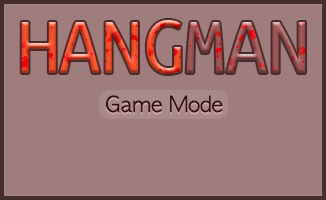
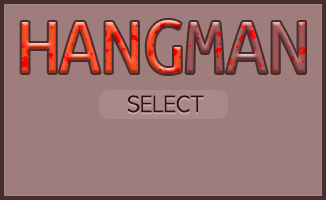
게임 알고리즘 완성 및 GUI연동

Changed region(s): [[0.3067, 0.45, 0.7055, 0.57]]

diff --git a/Hangman/GameController.java b/Hangman/GameController.java
@@ -1,0 +1,239 @@
+package Hangman;
+
+import javafx.animation.KeyFrame;
+import javafx.animation.Timeline;
+import javafx.fxml.FXML;
+import javafx.fxml.FXMLLoader;
+import javafx.fxml.Initializable;
+import javafx.geometry.Pos;
+import javafx.scene.Parent;
+import javafx.scene.Scene;
+import javafx.scene.control.Button;
+import javafx.scene.control.Label;
+import javafx.scene.control.ProgressBar;
+import javafx.scene.image.ImageView;
+import javafx.scene.layout.AnchorPane;
+import javafx.scene.layout.BorderPane;
+import javafx.scene.paint.Paint;
+import javafx.scene.text.Font;
+import javafx.stage.Stage;
+import javafx.util.Duration;
+
+import java.io.IOException;
+import java.net.URL;
+import java.util.Random;
+import java.util.ResourceBundle;
+
+public class GameController implements Initializable {
+
+    @FXML private AnchorPane GamePane;
+    @FXML private BorderPane CountDownPane;
+    @FXML private Label txtCount, txtDelete;
+    @FXML private ProgressBar timeBar;
+    @FXML private ImageView human;
+    @FXML private Label rope;
+    private Label[] labelAns, labelUnderline;
+    private Button[] bAlphabet;
+    private Label txtEndingMsg;
+    private Button bBackToTitle;
+
+    private Timeline timeline;
+    private final int tick = 3;
+    private final int GameTime = 60000; // ms (60000 = 1 min)
+    private int leftTick, leftTime;
+    private final String[] words = {"STUDENT","CHARACTER","MANTIS","ANIMAL","SMASHROOM","HANYANG","OHIKJUN","LEEJUNGIN","MAPLELEAF",
+    "ILOVEYOU","COMMUNITY","PROBLEM","DISCRETE","SUBMARINE","SEOYOUNG","LEEEUNAH"};
+    private char[] answer;
+    private char[] uranswer;
+
+    @Override
+    public void initialize(URL location, ResourceBundle resources) {
+        CountDownPane.setVisible(true);
+        timeBar.setStyle("-fx-accent: #ffae00");
+        startCountDown();
+
+        // set word
+        Random random = new Random();
+        //String temp = words[random.nextInt(words.length)];
+        String temp = words[(int)Math.round(Math.random()*(words.length-1))];
+        answer = new char[temp.length()];
+        uranswer = new char[temp.length()];
+        labelAns = new Label[temp.length()];
+        labelUnderline = new Label[temp.length()];
+        for (int i=0; i<temp.length(); i++) {
+            answer[i] = temp.charAt(i);
+            uranswer[i] = '_';
+
+            labelAns[i] = new Label("labelAns" + i);
+            labelAns[i].setPrefSize(52,100);
+            labelAns[i].setLayoutX(320+(25*(9-temp.length()))+(52*i));
+            labelAns[i].setLayoutY(90);
+            labelAns[i].setText(" ");
+            //labelAns[i].setUnderline(true);
+            labelAns[i].setFont(Font.font("Arial", 70));
+            labelAns[i].setAlignment(Pos.CENTER);
+
+            labelUnderline[i] = new Label("labelUnderline" + i);
+            labelUnderline[i].setPrefSize(48, 3);
+            labelUnderline[i].setLayoutX(320+(25*(9-temp.length()))+(52*i)+2);
+            labelUnderline[i].setLayoutY(175);
+            labelUnderline[i].setText("");
+            labelUnderline[i].setFont(Font.font("Arial",1));
+            labelUnderline[i].setStyle("-fx-background-color: BLACK");
+            GamePane.getChildren().addAll(labelAns[i], labelUnderline[i]);
+        }
+
+        // make alphabet select button
+        bAlphabet = new Button[26];
+        for (int i=0; i<26; i++) {
+            bAlphabet[i] = new Button("bAlphabet" + i);
+            bAlphabet[i].setPrefSize(80,37);
+            if (i == 25) bAlphabet[i].setPrefSize(408,37);
+            bAlphabet[i].setLayoutX(350+(82*(i%5)));
+            bAlphabet[i].setLayoutY(250+(i/5)*45);
+            bAlphabet[i].setText("" + (char)((int)'A'+i));
+            bAlphabet[i].setFont(Font.font("Airal", 20));
+            Button bTmp = bAlphabet[i];
+            bAlphabet[i].setOnAction(event -> PressButton(bTmp.getText()));
+            GamePane.getChildren().add(bAlphabet[i]);
+        }
+
+        // end message ( win or lose )
+        txtEndingMsg = new Label("txtEndingMsg");
+        txtEndingMsg.setPrefSize(490, 110);
+        txtEndingMsg.setText("ENDING MSG");
+        txtEndingMsg.setFont(Font.font("Arial", 50));
+        txtEndingMsg.setAlignment(Pos.CENTER);
+        txtEndingMsg.setLayoutX(310);
+        txtEndingMsg.setLayoutY(240);
+        txtEndingMsg.setVisible(false);
+
+        // go back to title
+        bBackToTitle = new Button("bBackToTitle");
+        bBackToTitle.setPrefSize(150,37);
+        bBackToTitle.setLayoutX(600);
+        bBackToTitle.setLayoutY(500);
+        bBackToTitle.setText("GO TITLE");
+        bBackToTitle.setFont(Font.font("Arial", 20));
+        bBackToTitle.setOnAction(event -> backToTitle());
+        bBackToTitle.setVisible(false);
+
+        GamePane.getChildren().addAll(txtEndingMsg, bBackToTitle);
+    }
+
+    private void PressButton(String getText) {
+        int countSpace = 0, countCorrect = 0;
+        char key = getText.charAt(0);
+        bAlphabet[key-'A'].setVisible(false);
+        for (int i=0; i<answer.length; i++) {
+            if (answer[i] == key) {
+                uranswer[i] = key;
+                labelAns[i].setText("" + key);
+                countCorrect++;
+            }
+            if (labelAns[i].getText() == " ") {
+                countSpace++;
+            }
+        }
+        if (countSpace == 0) {
+            winGame();
+            return;
+        }
+        if (countCorrect == 0) {
+            leftTime -= 3000;
+            downRope(0.081 * 300);
+        }
+    }
+
+    private void startGame() {
+        CountDownPane.setVisible(false);
+
+        leftTime = GameTime;
+        timeline = new Timeline(new KeyFrame(Duration.millis(10), event -> {
+            leftTime -= 10;
+            if (leftTime <= 0) {
+                timeline.stop();
+                timeBar.setProgress(0);
+                loseGame();
+            } else {
+                timeBar.setProgress((double) leftTime / 60000);
+                downRope(0.081);
+                if ((human.getLayoutY() + 332 >= 570) && (leftTime % 100 == 0)) { //((leftTime < 40000) && (leftTime%100 == 0)) {
+                    if (txtDelete.getTextFill() == Paint.valueOf("ORANGE")) {
+                        txtDelete.setTextFill(Paint.valueOf("WHITE"));
+                    } else {
+                        txtDelete.setTextFill(Paint.valueOf("ORANGE"));
+                    }
+                }
+            }
+        }));
+        timeline.setCycleCount(Timeline.INDEFINITE);
+        timeline.play();
+    }
+
+    private void downRope(double value) {
+        rope.setPrefHeight(rope.getPrefHeight() + value);
+        human.setLayoutY(human.getLayoutY() + value);
+    }
+
+    private void startCountDown() {
+        leftTick = tick;
+        txtCount.setText("" + leftTick);
+        timeline = new Timeline(new KeyFrame(Duration.seconds(1),event -> {
+            leftTick--;
+            if (leftTick <= 0) {
+                timeline.stop();
+                startGame();
+            } else { // if lefttick is 0, Text don't change.
+                txtCount.setText("" + leftTick);
+            }
+        }));
+        timeline.setCycleCount(Timeline.INDEFINITE);
+        timeline.play();
+    }
+
+    private void hideAllButton() {
+        for (int i=0; i<26; i++) {
+            bAlphabet[i].setVisible(false);
+        }
+    }
+
+    private void backToTitle() {
+        try {
+            Stage stage = (Stage) GamePane.getScene().getWindow();
+            Parent root = FXMLLoader.load(getClass().getResource("fxml/TitleScreen.fxml"));
+            Scene scene = new Scene(root, 326, 200);
+            stage.setScene(scene);
+            stage.centerOnScreen();
+        } catch (IOException e) {
+
+        }
+    }
+
+    private void loseGame() {
+        hideAllButton();
+
+        txtEndingMsg.setText("YOU LOSE!!");
+        txtEndingMsg.setVisible(true);
+        bBackToTitle.setVisible(true);
+    }
+
+    private void winGame() {
+        timeline.stop();
+        hideAllButton();
+
+        txtEndingMsg.setText("CORRECT!!");
+        txtEndingMsg.setVisible(true);
+        bBackToTitle.setVisible(true);
+
+        Label txtRecord = new Label("txtRecord");
+        txtRecord.setPrefSize(490, 100);
+        txtRecord.setText("SCORE : " + leftTime/60 + " / 1000");
+        txtRecord.setTextFill(Paint.valueOf("GREEN"));
+        txtRecord.setFont(Font.font("Arial", 40));
+        txtRecord.setAlignment(Pos.CENTER);
+        txtRecord.setLayoutX(310);
+        txtRecord.setLayoutY(300);
+        GamePane.getChildren().add(txtRecord);
+    }
+}

diff --git a/Hangman/titleController.java b/Hangman/titleController.java
@@ -15,35 +15,25 @@ import java.util.ResourceBundle;
 
 public class TitleController implements Initializable {
 
-    @FXML private Button practiceMode, generalMode;
+    @FXML private Button bGameStart, bSetting;
 
     @Override
     public void initialize(URL location, ResourceBundle resources) {
     }
 
-    private void enable_all() {
-        practiceMode.setDisable(false);
-        generalMode.setDisable(false);
-    }
-
-    private void disable_all() {
-        practiceMode.setDisable(true);
-        generalMode.setDisable(true);
-    }
-
-    // 이지모드 버튼 클릭
+    // 게임시작 버튼 클릭
     @FXML
-    private void pMode_Action(ActionEvent event) throws IOException {
-        Stage stage = (Stage) practiceMode.getScene().getWindow();
-        Parent root = FXMLLoader.load(getClass().getResource("fxml/PracticeModeScreen.fxml"));
+    private void bGS_Action(ActionEvent event) throws IOException {
+        Stage stage = (Stage) bGameStart.getScene().getWindow();
+        Parent root = FXMLLoader.load(getClass().getResource("fxml/GameScreen.fxml"));
         Scene scene = new Scene(root,800,600);
         stage.setScene(scene);
         stage.centerOnScreen();
     }
 
-    // 일반모드 버튼 클릭
+    // 세팅 버튼 클릭
     @FXML
-    private void gMode_Action(ActionEvent event) throws IOException {
-        Parent root = FXMLLoader.load(getClass().getResource("fxml/GeneralModeScreen.fxml"));
+    private void bS_Action(ActionEvent event) throws IOException {
+        Parent root = FXMLLoader.load(getClass().getResource("fxml/SettingScreen.fxml"));
     }
 }

diff --git a/Hangman/SettingController.java b/Hangman/SettingController.java
@@ -8,7 +8,7 @@ import javafx.scene.layout.BorderPane;
 import java.net.URL;
 import java.util.ResourceBundle;
 
-public class GeneralModeController implements Initializable {
+public class SettingController implements Initializable {
 
     @FXML private BorderPane background;
     @FXML private Label txtCount;
